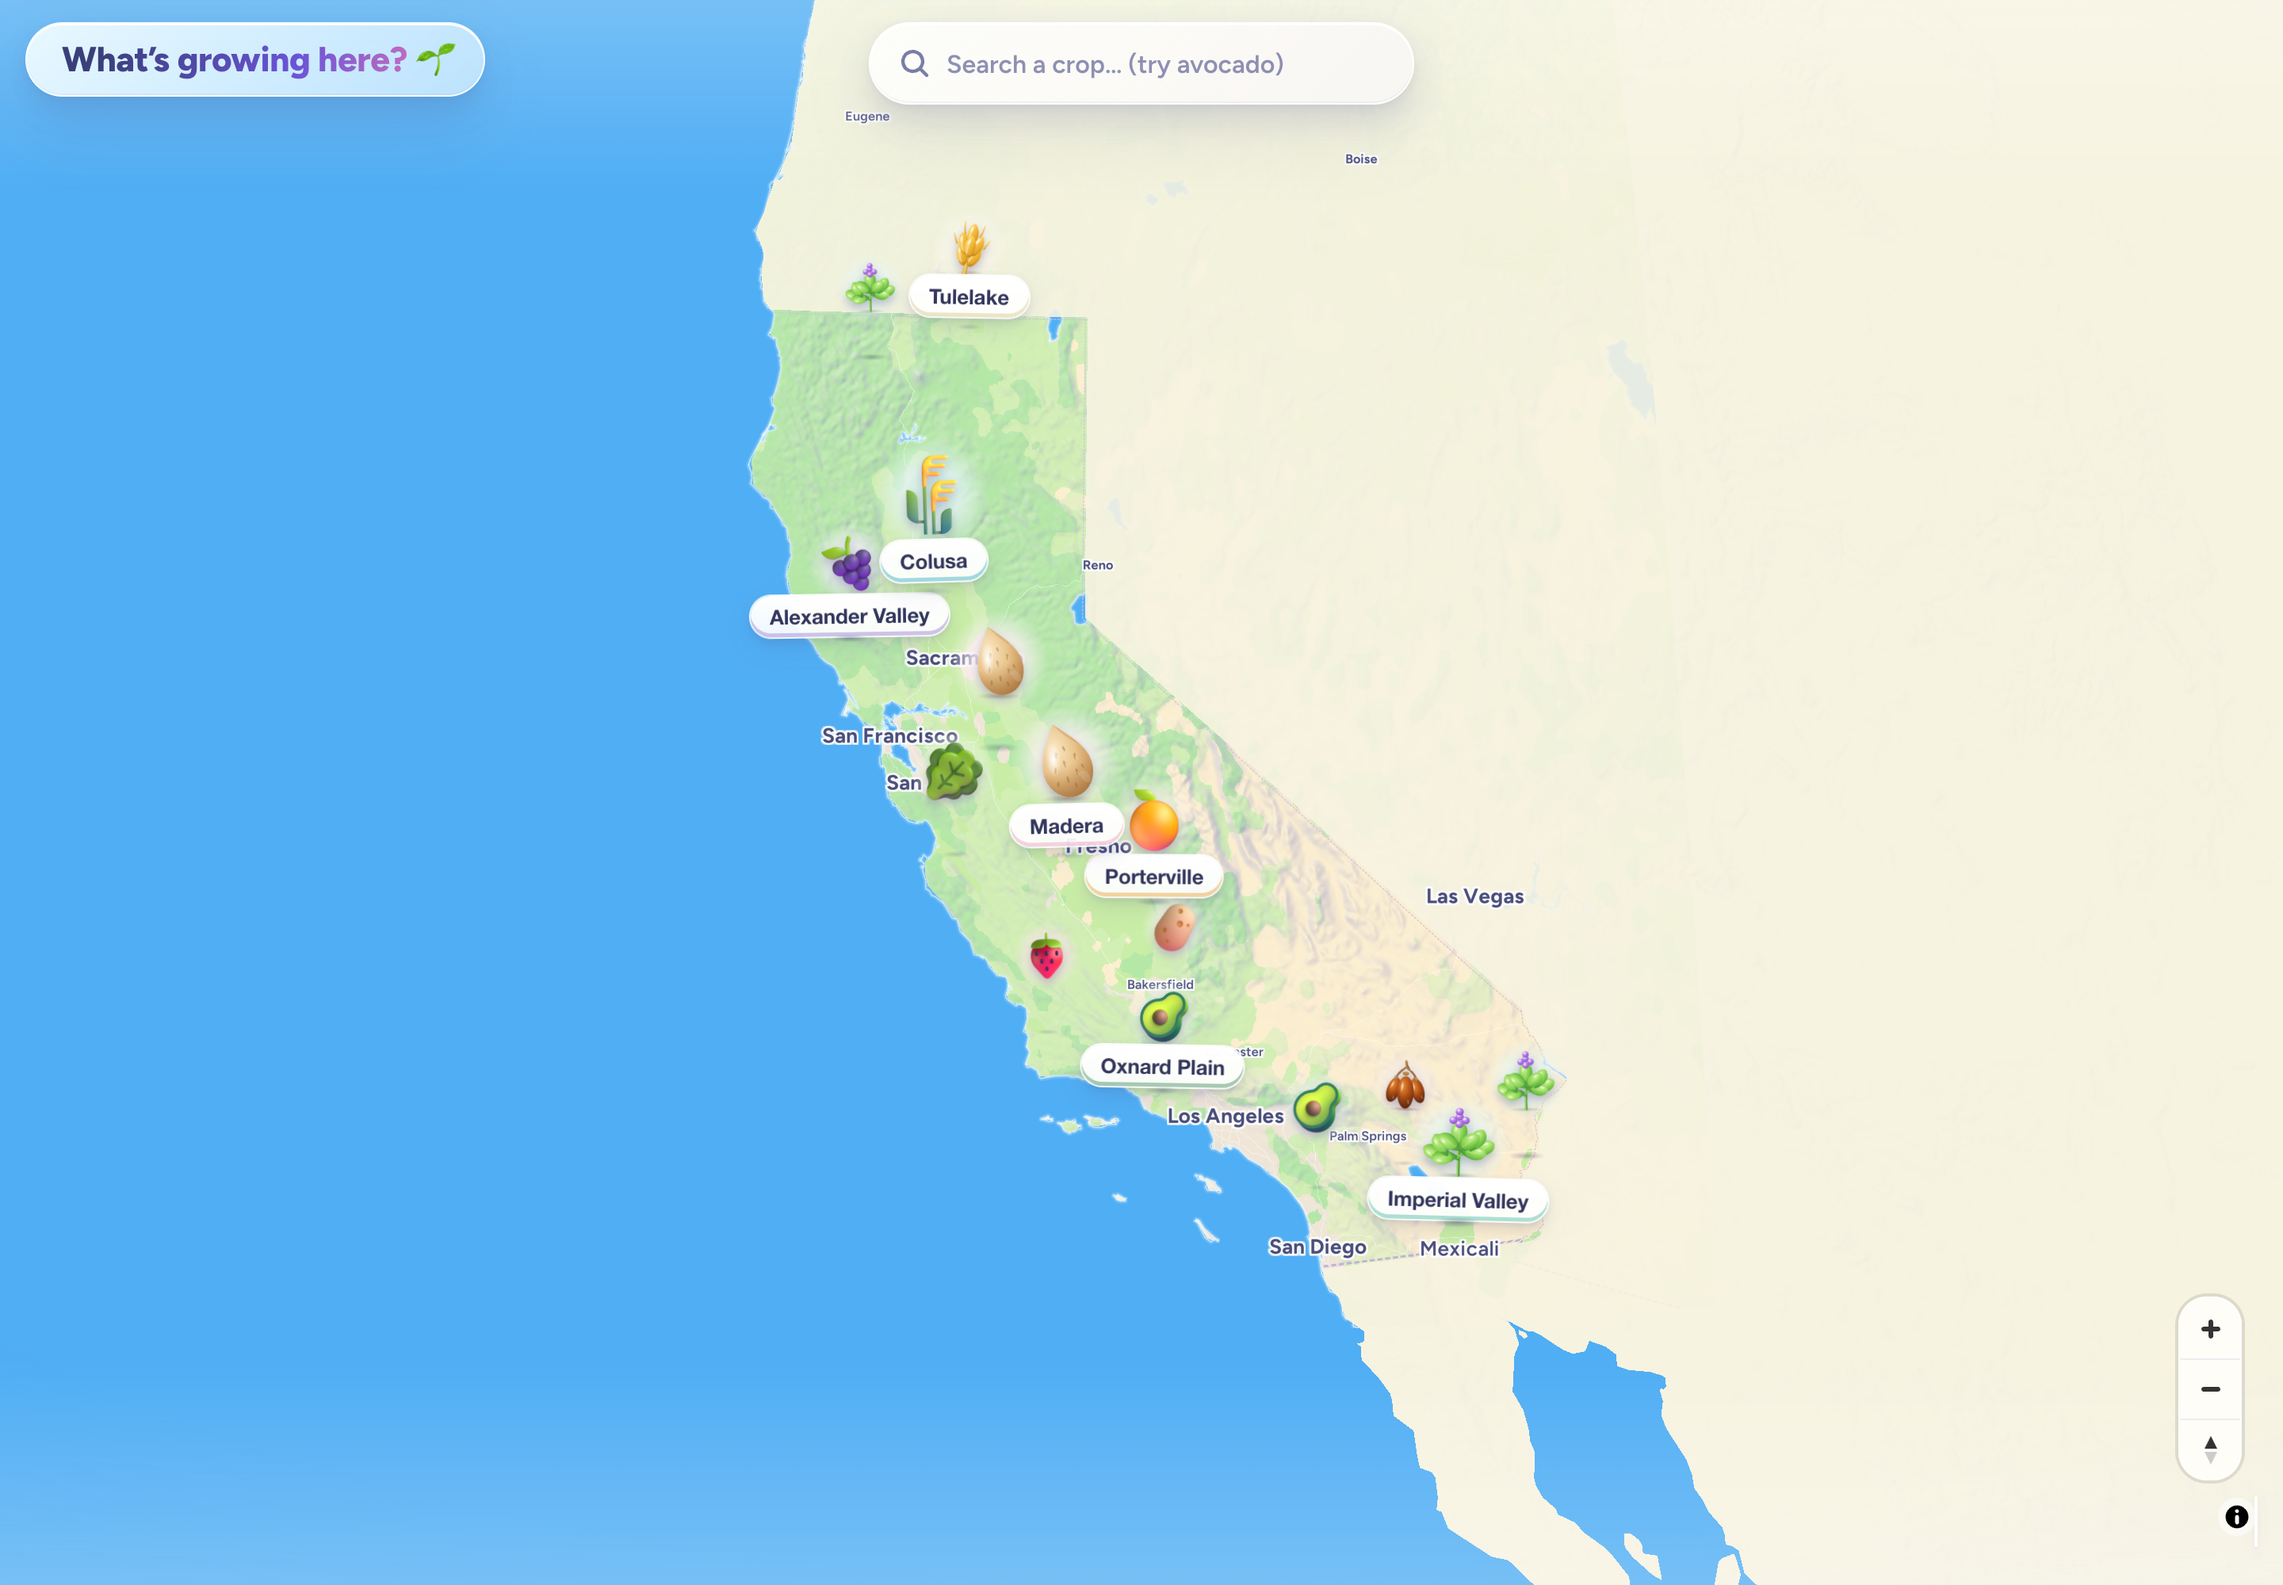
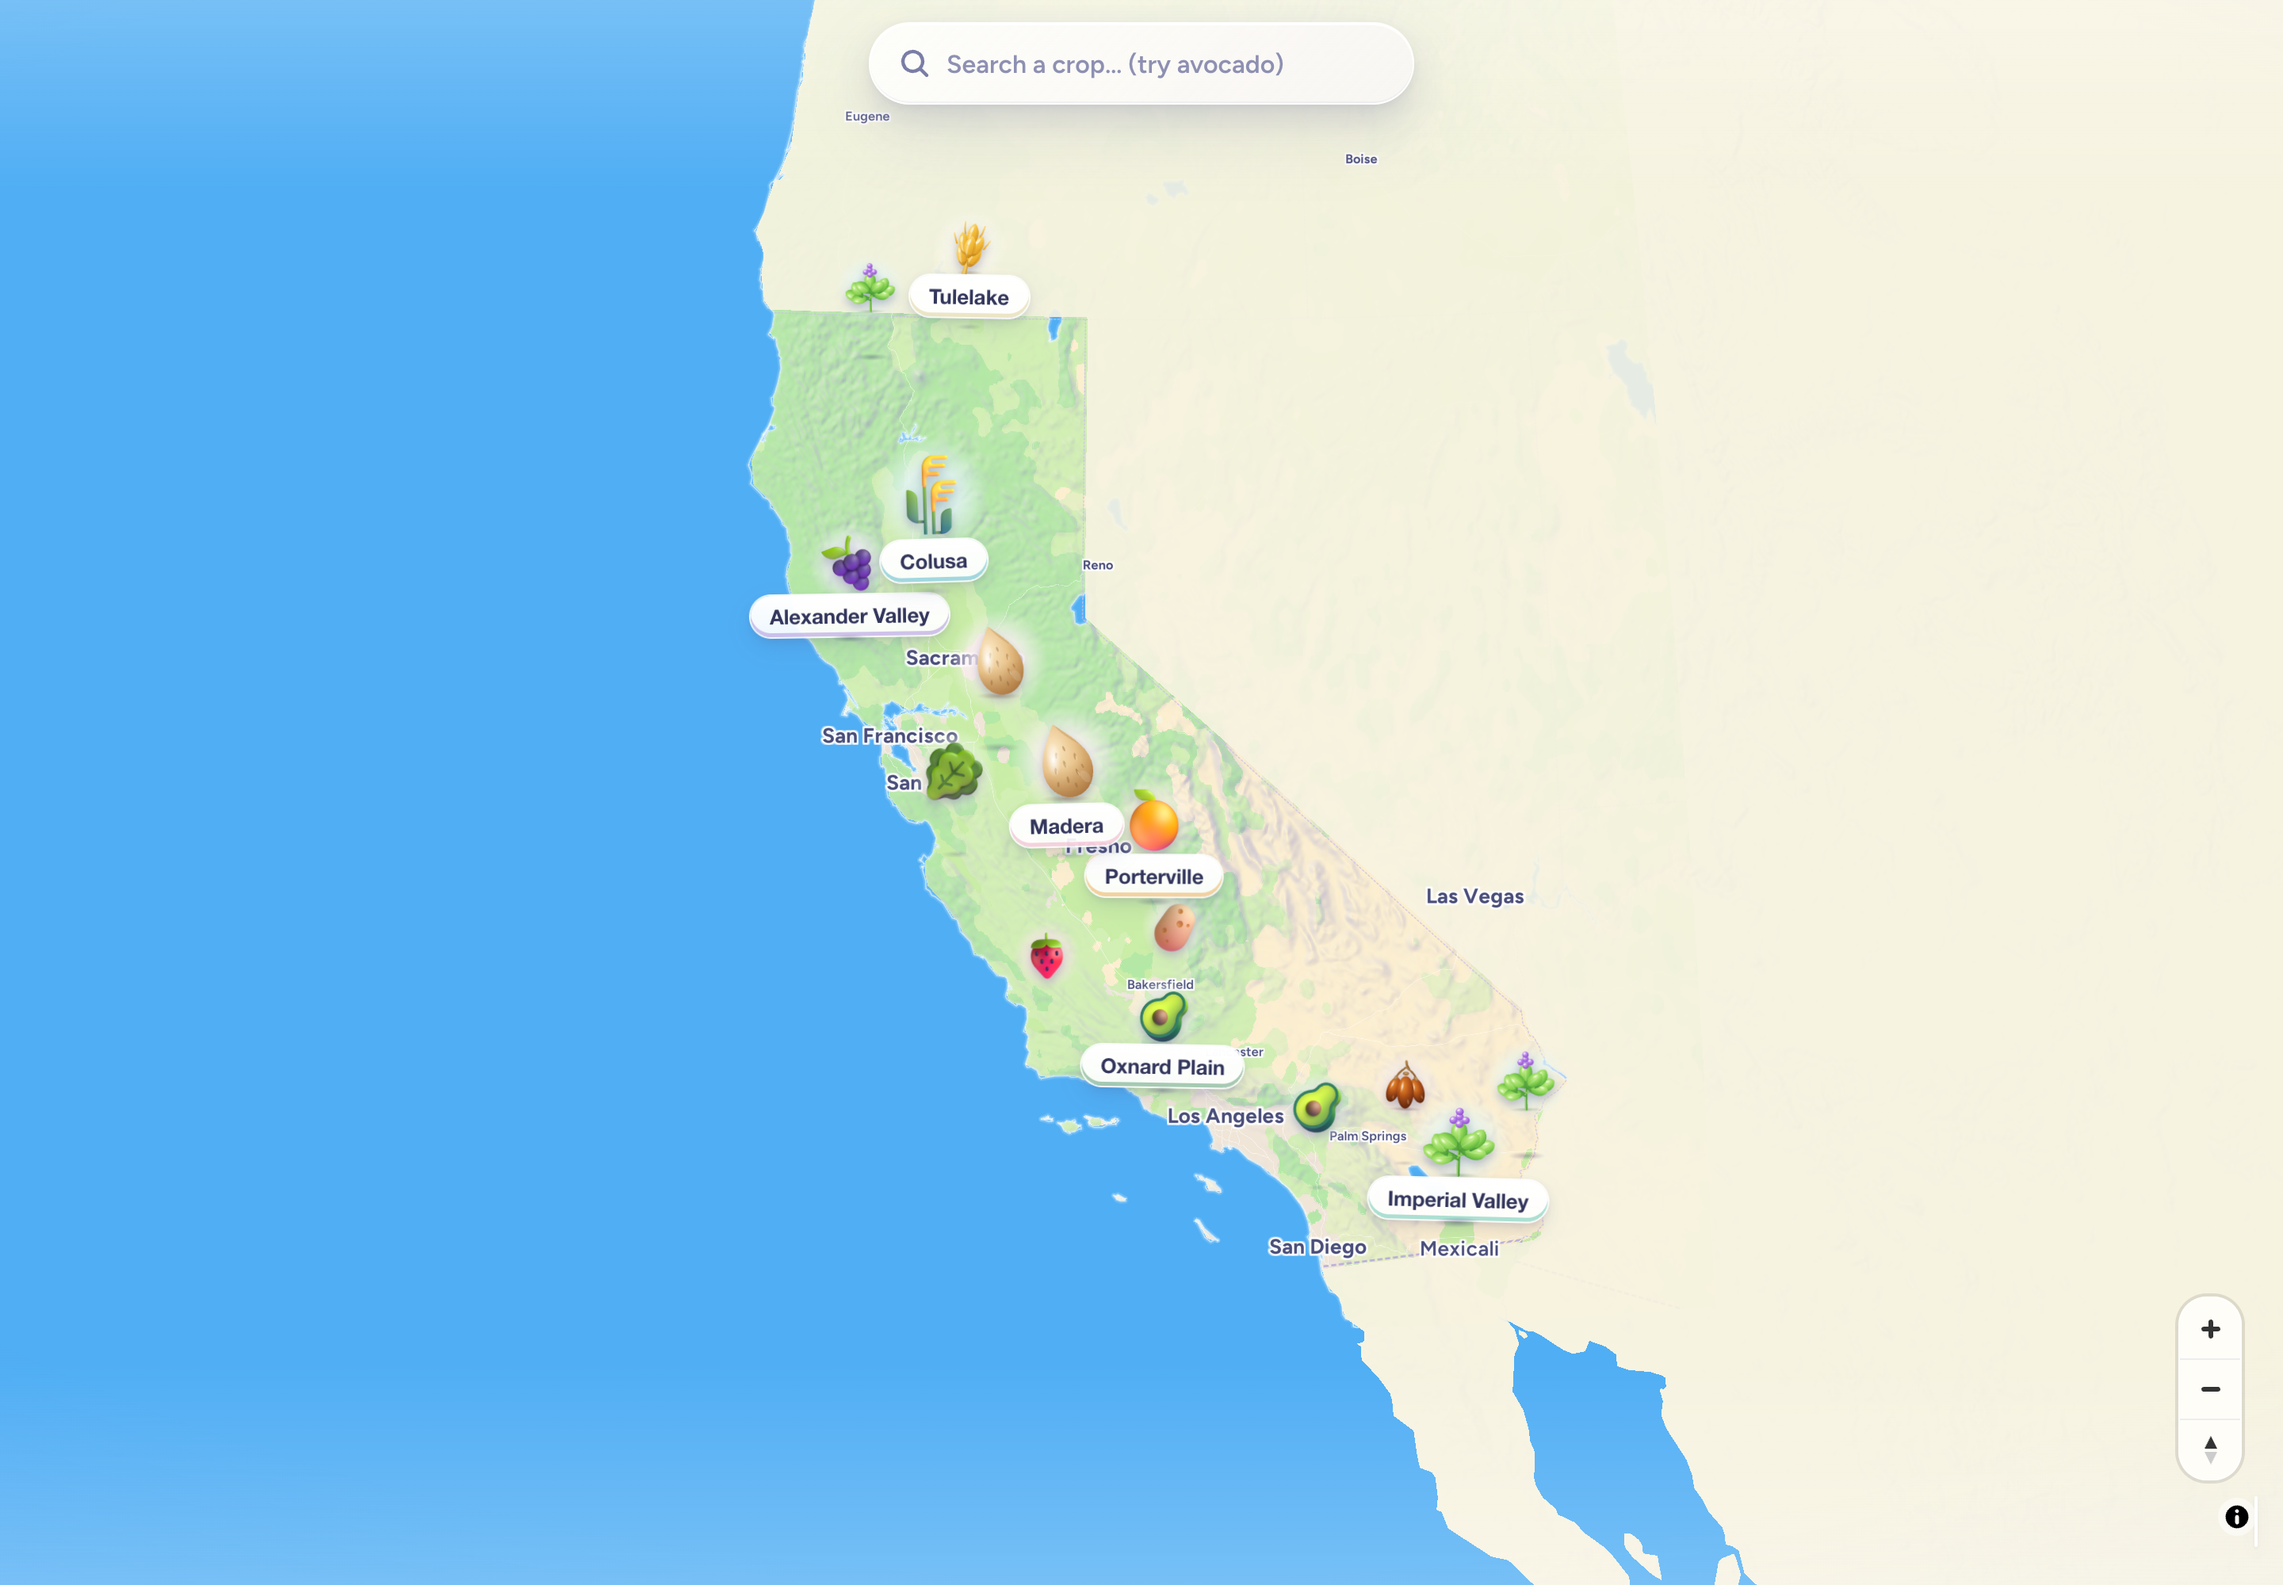
site: remove title pill

Changed region(s): [[0.0, 0.0, 0.2188, 0.062]]

diff --git a/site/src/styles/shell.css b/site/src/styles/shell.css
@@ -9,37 +9,6 @@
     radial-gradient(120% 90% at 50% 45%, rgba(255, 255, 255, 0) 60%, rgba(140, 170, 255, 0.1) 100%);
 }
 
-#title-pill {
-  position: absolute;
-  z-index: var(--z-map-ui);
-  top: var(--safe-top);
-  left: var(--edge);
-  padding: 10px 20px 10px 22px;
-  background: linear-gradient(135deg, rgba(255, 255, 255, 0.88), rgba(255, 244, 252, 0.66));
-  animation: pill-in var(--dur-slow) var(--spring) both;
-}
-
-#title-pill h1 {
-  margin: 0;
-  font-size: clamp(17px, 2.2vw, 22px);
-  font-weight: 800;
-  letter-spacing: -0.01em;
-  line-height: 1.15;
-  white-space: nowrap;
-  background: linear-gradient(100deg, #3a3f7a 10%, #6a54d6 60%, #ff7eb0 110%);
-  -webkit-background-clip: text;
-  background-clip: text;
-  color: transparent;
-}
-
-#title-pill .sprout {
-  display: inline-block;
-  color: initial;
-  -webkit-text-fill-color: initial;
-  transform-origin: 50% 90%;
-  animation: sprout 3.2s var(--ease-out) 1s infinite;
-}
-
 #search-slot {
   position: absolute;
   z-index: var(--z-map-ui);
@@ -122,46 +91,7 @@
 }
 
 @media (max-width: 720px) {
-  #title-pill {
-    left: 50%;
-    padding: 8px 16px;
-    transform: translateX(-50%);
-    animation-name: pill-in-center;
-  }
-
-  #search-slot {
-    top: calc(var(--safe-top) + 52px);
-  }
-
   .maplibregl-ctrl-bottom-right {
     bottom: calc(var(--safe-bottom) + 72px);
-  }
-}
-
-@keyframes pill-in {
-  from {
-    opacity: 0;
-    transform: translateY(-14px) scale(0.92);
-  }
-}
-
-@keyframes pill-in-center {
-  from {
-    opacity: 0;
-    transform: translateX(-50%) translateY(-14px) scale(0.92);
-  }
-}
-
-@keyframes sprout {
-  0%,
-  70%,
-  100% {
-    transform: rotate(0) scale(1);
-  }
-  78% {
-    transform: rotate(-12deg) scale(1.2);
-  }
-  88% {
-    transform: rotate(8deg) scale(1.08);
   }
 }

diff --git a/site/index.html b/site/index.html
@@ -12,9 +12,6 @@
     <div id="app">
       <div id="map" aria-label="Map of California crops"></div>
       <div class="vignette" aria-hidden="true"></div>
-      <header id="title-pill" class="glass pill">
-        <h1>What&rsquo;s growing here? <span class="sprout" aria-hidden="true">🌱</span></h1>
-      </header>
       <div id="search-slot"></div>
       <div id="popup-root"></div>
     </div>
